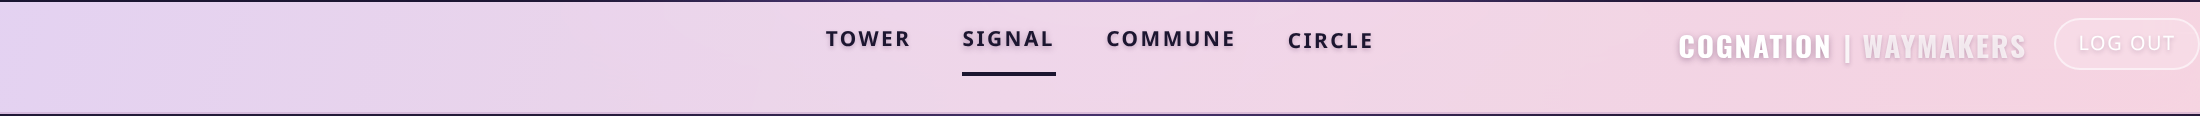
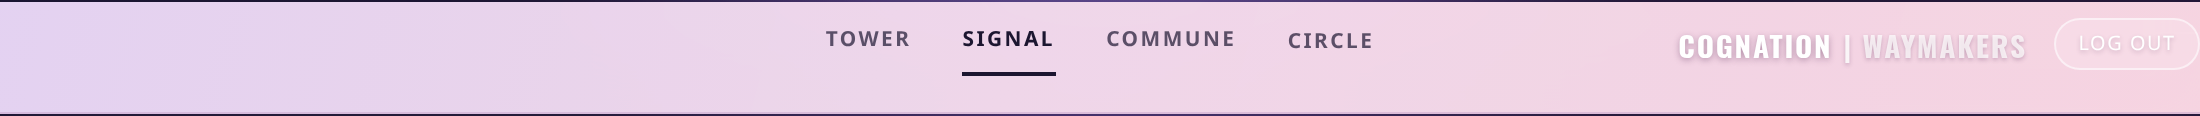
eng: top bar Designer calls — 70% inactive, 40% hover underline, no shadow
Designer calls for the top-row tabs (TOWER, SIGNAL, COMMUNE, CIRCLE):
- inactive labels #1c1630 at 70% on the text color: rgba(28, 22, 48, 0.7)
- active label stays full #1c1630 with the 2px #1c1630 underline
- hover/focus underline #1c1630 at 40%: rgba(28, 22, 48, 0.4)
- text-shadow: none on these tabs

COGNATION | WAYMAKERS switch, Log out, and the #64 sub-switches unchanged.
Test updated; after-* screenshots regenerated.

Changed region(s): [[0.4945, 0.2586, 0.6491, 0.4138], [0.3709, 0.2586, 0.4636, 0.4138]]

diff --git a/js/topbar-dark-letters.test.js b/js/topbar-dark-letters.test.js
@@ -48,9 +48,12 @@ var ACTIVE = '.app-topbar .tablist [role="tab"][aria-selected="true"], body.is-c
 assert.ok(/id="tab-tower"[^>]*>TOWER</.test(html) && /id="tab-signal"[^>]*>SIGNAL</.test(html) && /id="tab-commune"[^>]*>COMMUNE</.test(html), "top-row tabs");
 assert.ok(/class="app-topbar-shortcut" data-tower-anchor="circle">CIRCLE</.test(html), "CIRCLE shortcut");
 
-/* All top-row labels: dark #1c1630, no fill, 2px underline slot (existing thickness). */
+/* Inactive top-row labels: #1c1630 at 70% on the text color (not element opacity), no fill,
+   2px underline slot, no text-shadow (Designer 2026-10-07). */
 var tabs = last(TABS);
-assert.strictEqual(decl(tabs.body, "color"), DARK, "dark letters on every top-row tab");
+assert.strictEqual(decl(tabs.body, "color"), "rgba(28, 22, 48, 0.7)", "inactive tabs #1c1630 at 70%");
+assert.strictEqual(decl(tabs.body, "opacity"), null, "70% is on color, not element opacity");
+assert.strictEqual(decl(tabs.body, "text-shadow"), "none", "no text-shadow on inactive tabs");
 assert.strictEqual(decl(tabs.body, "background"), "transparent", "no fill");
 assert.strictEqual(decl(tabs.body, "border-bottom"), "2px solid transparent", "thin underline slot, transparent when inactive");
 
@@ -60,11 +63,14 @@ assert.strictEqual(decl(active.body, "color"), DARK, "active letters dark");
 assert.strictEqual(decl(active.body, "border-bottom-color"), DARK, "active underline is the dark lock color");
 assert.strictEqual(decl(active.body, "background"), "transparent", "active has no fill");
 assert.strictEqual(decl(active.body, "box-shadow"), "none", "active has no glow");
+assert.strictEqual(decl(active.body, "text-shadow"), "none", "no text-shadow on the active tab");
+assert.strictEqual(decl(active.body, "opacity"), null, "active stays full strength");
 
 /* Hover keeps dark letters (no white flash) and the existing hover underline. */
 var hover = last(HOVER);
 assert.strictEqual(decl(hover.body, "color"), DARK, "hover letters stay dark");
-assert.strictEqual(decl(hover.body, "border-bottom-color"), "rgba(255, 255, 255, 0.72)", "existing hover underline reused");
+assert.strictEqual(decl(hover.body, "border-bottom-color"), "rgba(28, 22, 48, 0.4)", "hover underline #1c1630 at 40%");
+assert.strictEqual(decl(hover.body, "text-shadow"), "none", "no text-shadow on hover");
 
 /* The lock rules are the last word: no later top-level rule recolors the top-row tabs. */
 var lockAt = Math.max(tabs.at, active.at, hover.at);

diff --git a/css/styles.css b/css/styles.css
@@ -12405,16 +12405,14 @@ a.circle-fall-portrait {
    COMMUNE · CIRCLE). COGNATION | WAYMAKERS switch and Log out stay white on
    the lilac bar (PR #51). SIGNAL / COMMUNE / Tower sub-switches are out of
    scope (PR #64 stays as-is).
-   Choices not named in the lock reuse existing values (called out for
-   Designer): underline thickness = the 2px already on these tabs; underline
-   color = the lock's `#1c1630`; inactive tabs use the same `#1c1630` letters
-   with the existing transparent underline (no lighter inactive shade was
-   named); hover / focus keeps the existing `rgba(255, 255, 255, 0.72)`
-   underline; text-shadows are the existing values from this block. */
+   Designer calls (2026-10-07): 2px underline; inactive tabs #1c1630 at 70%
+   on the text color (rgba(28, 22, 48, 0.7)), active full #1c1630; hover
+   underline #1c1630 at 40% (rgba(28, 22, 48, 0.4)); no text-shadow on these
+   tabs. Switch and Log out stay white. */
 .app-topbar .tablist [role="tab"],
 .app-topbar-shortcut {
-  color: #1c1630 !important;
-  text-shadow: 0 1px 2px rgba(90, 50, 90, 0.28) !important;
+  color: rgba(28, 22, 48, 0.7) !important;
+  text-shadow: none !important;
   background: transparent !important;
   border: 0 !important;
   border-bottom: 2px solid transparent !important;
@@ -12426,9 +12424,9 @@ a.circle-fall-portrait {
 .app-topbar-shortcut:hover,
 .app-topbar-shortcut:focus-visible {
   color: #1c1630 !important;
-  border-bottom-color: rgba(255, 255, 255, 0.72) !important;
+  border-bottom-color: rgba(28, 22, 48, 0.4) !important;
   background: transparent !important;
-  text-shadow: 0 1px 3px rgba(90, 50, 90, 0.35) !important;
+  text-shadow: none !important;
 }
 
 .app-topbar .tablist [role="tab"][aria-selected="true"],
@@ -12437,7 +12435,7 @@ body.is-circle-open .app-topbar-shortcut[data-tower-anchor="circle"] {
   border-bottom-color: #1c1630 !important;
   background: transparent !important;
   box-shadow: none !important;
-  text-shadow: 0 1px 3px rgba(90, 50, 90, 0.4) !important;
+  text-shadow: none !important;
 }
 
 .app-topbar-actions .app-logout-btn {
